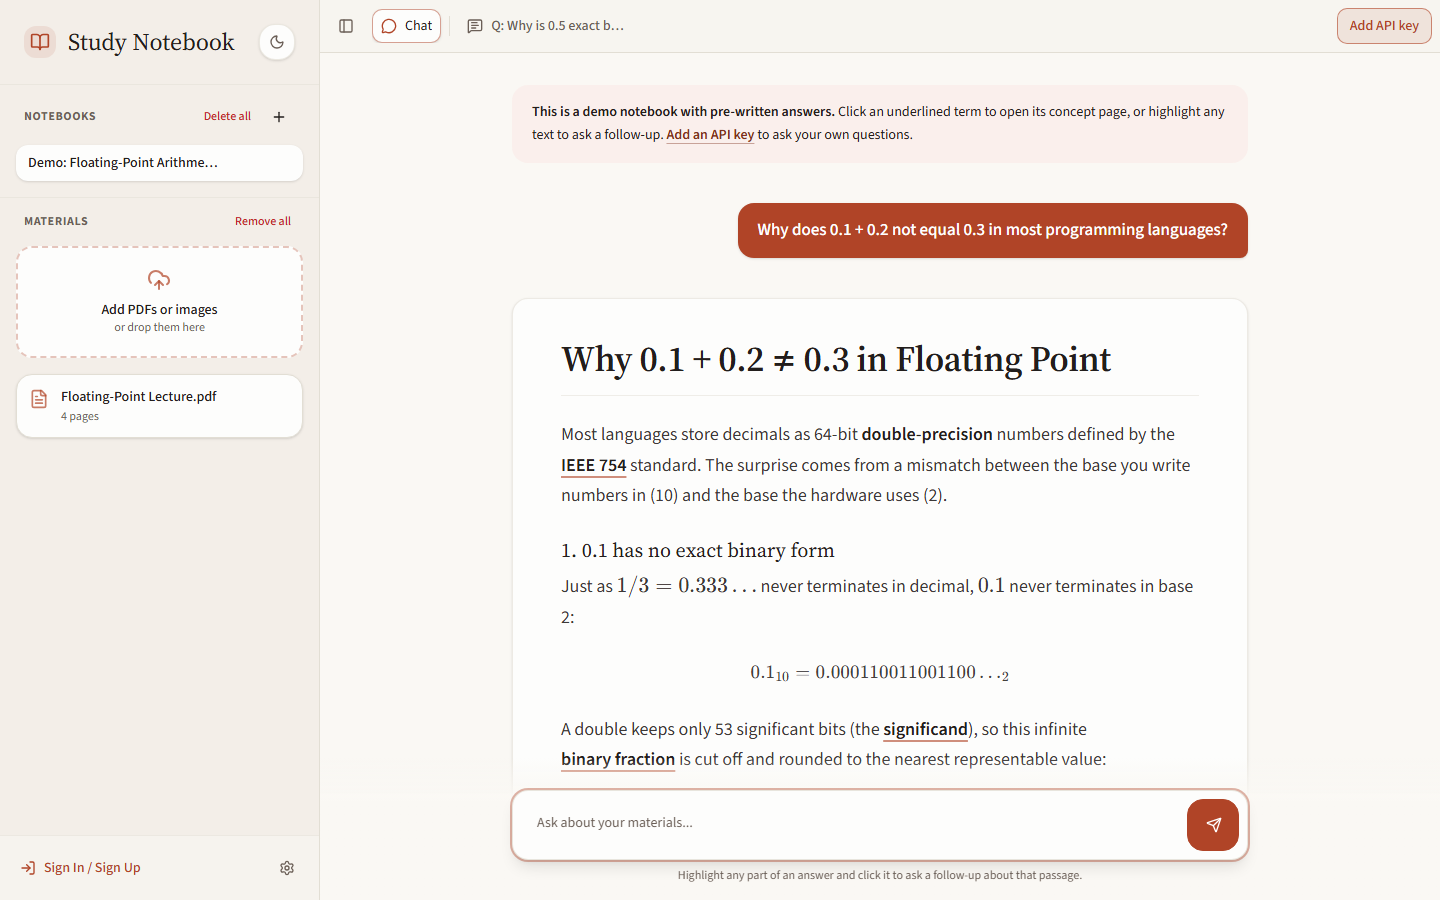
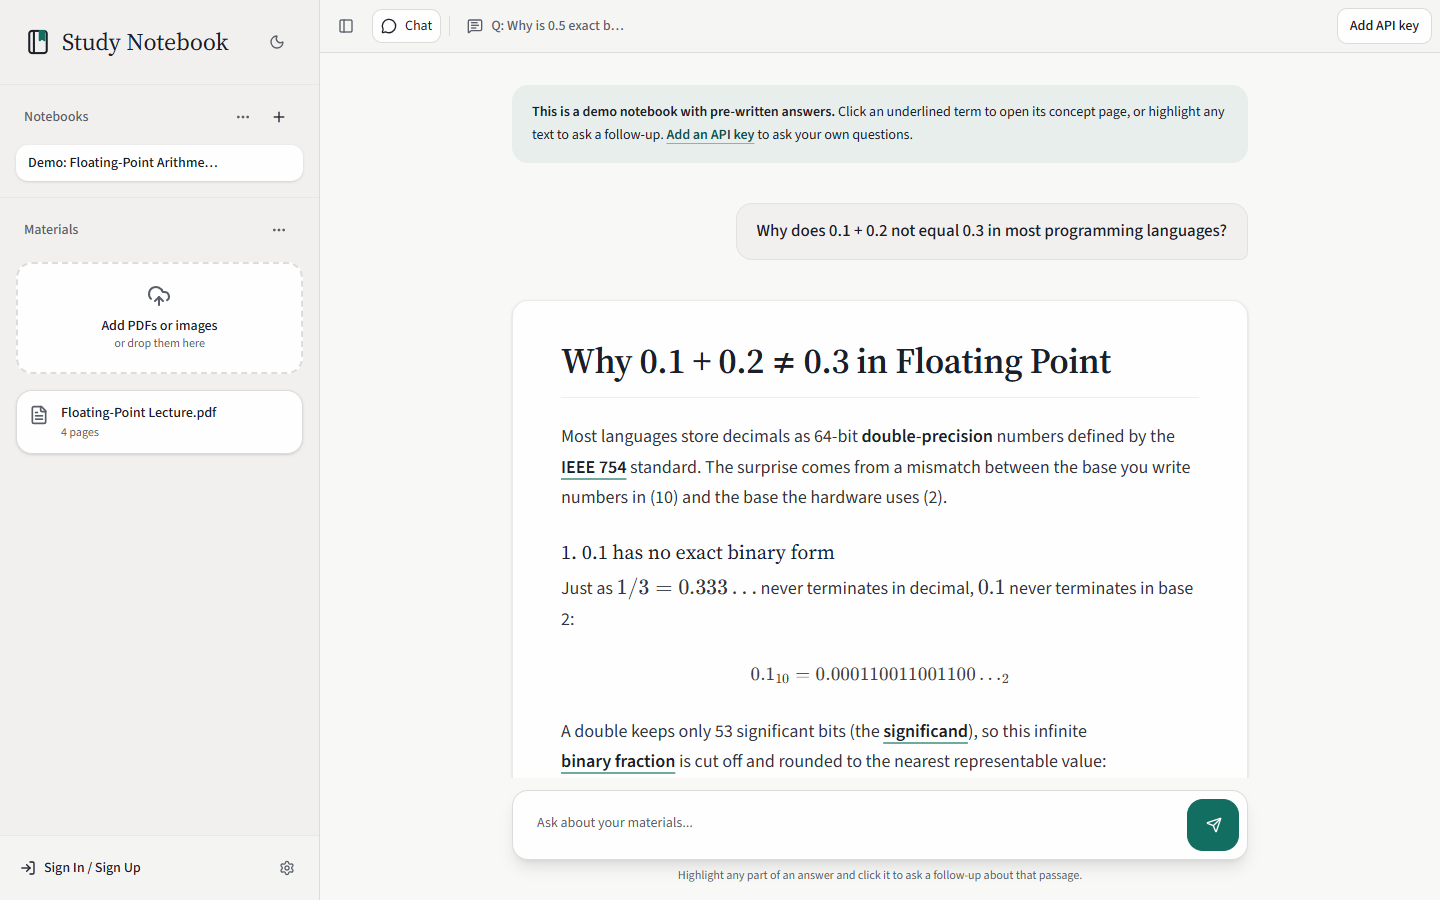
docs: dark-mode screenshots and preview image for the new palette

diff --git a/README.md b/README.md
@@ -7,7 +7,7 @@
 
 **[Try the live app →](https://study.thomasliu.dev)** No sign-up or API key needed; a sample notebook loads on your first visit.
 
-![Study Notebook answering why 0.1 + 0.2 ≠ 0.3, with underlined terms and cited lecture pages](docs/screenshot-light.png)
+![Study Notebook answering why 0.1 + 0.2 ≠ 0.3, with underlined terms and cited lecture pages](docs/screenshot-dark.png)
 
 <table>
   <tr>
